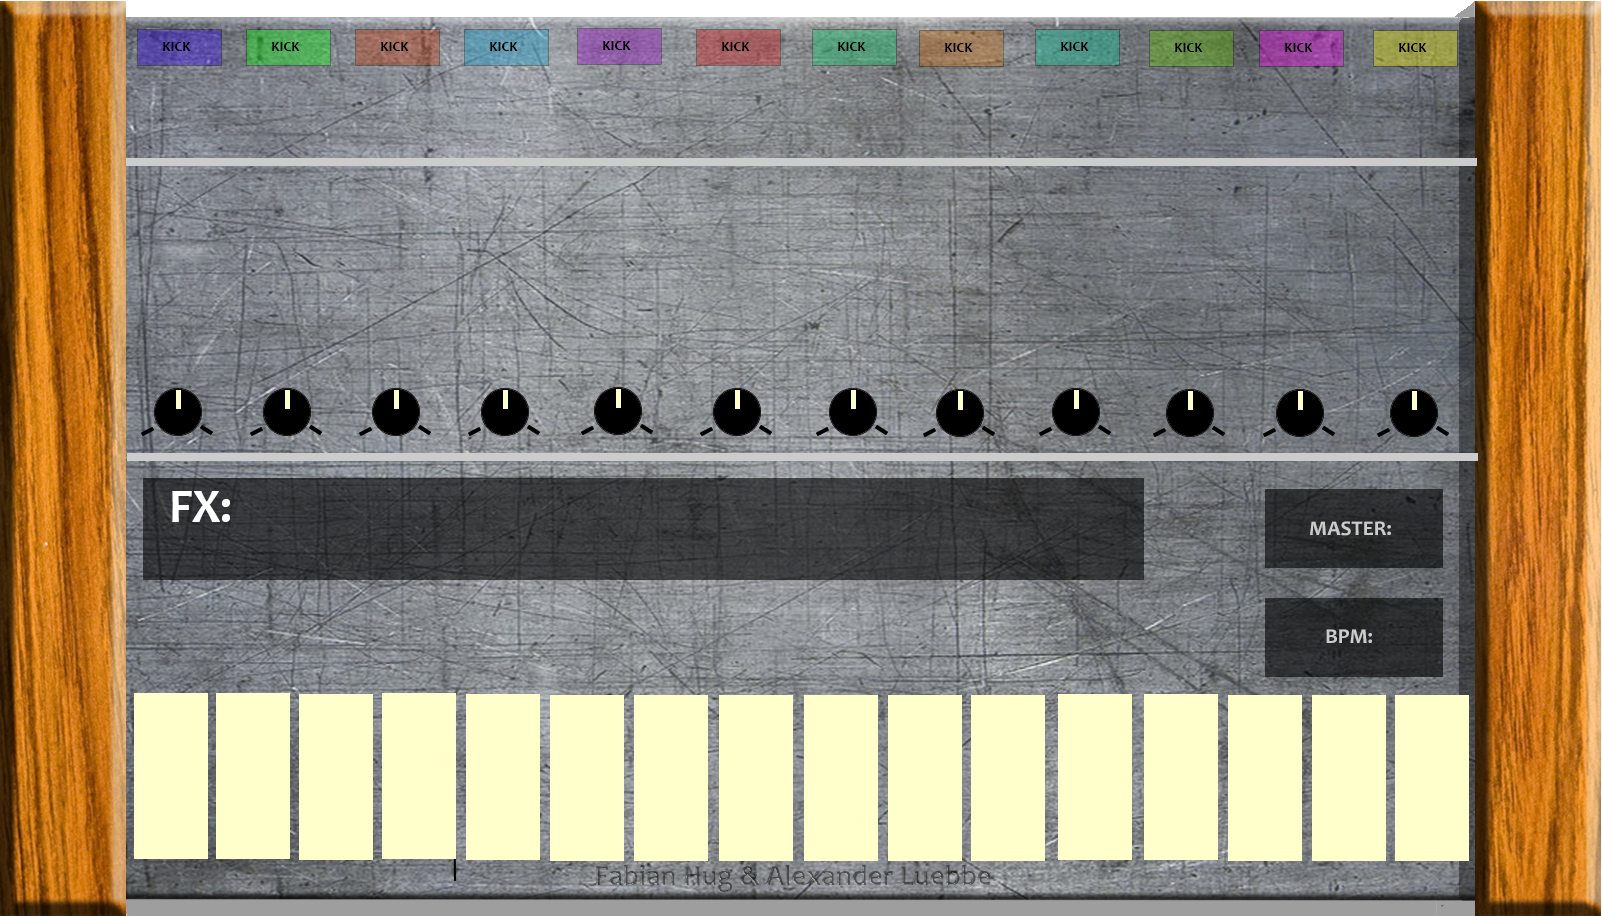
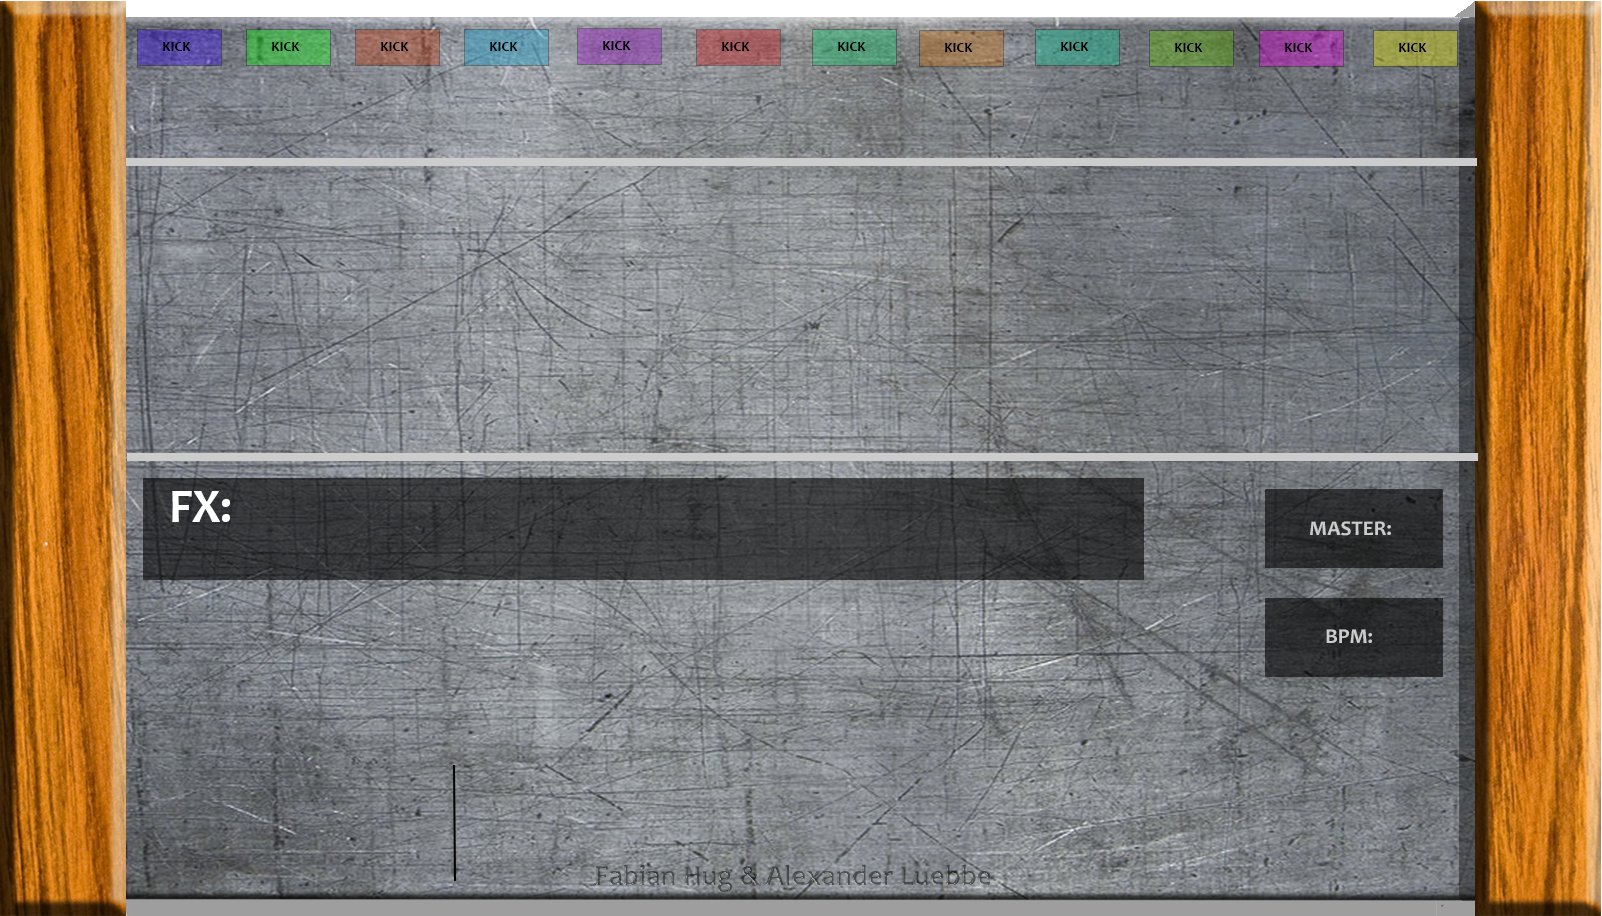
Html/Css Einbauen weiterer Controll-Elemente
Integrieren von:
-Platzhalter für Selector (Vorsorge für Margineinstellungen, etc.)
-Vorläufige Panorama Regler
-Platzhalter für die Global/Master Sektion
-Vorläufige Sequenzer-Buttons

diff --git a/css/screen.css b/css/screen.css
@@ -1,10 +1,9 @@
 *{
-	/*prevent user to select elements*/
 	-webkit-appearance: none;
 	-webkit-user-select: none; /* Chrome/Safari */
 	-moz-user-select: none; /* Firefox */
 	-ms-user-select: none;
-	/*border: 1px dashed blue; /* zur Orientierung*/
+	/*prevent user to select elements*/
 }
 
 html{
@@ -31,54 +30,59 @@ body {
 	width: 85em;
 	margin: auto;
 	margin-top: 5%;
-
-
 }
 
 #devicecontent{
 	overflow: auto;
-	margin-top: 0; /*Positionierung des contents auf der Silbernen Platte*/
+	margin-top: 0; /*Positionierung des contents auf der  Metallplatte*/
+}
+
+
+/*SELECTORS-PLATZHALTER*/
+#selector1{
+	margin-left: 7.3em;
+}
+.selectors{
+	height: 2em;
+	width: 5em;
+	background-color: #ddd;
+	margin-top: 1.5em;
+	margin-bottom: 0.5em;
 }
 
 /*TRIGGERPADS*/
 #trigger1{
-	margin-left: 8.5%;
+	margin-left: 7.3em;
 }
-
 .triggers{
 	vertical-align: top;
 	height: 4em;
 	width: 5em;
 	background-color: #ffffcc;
 	border-radius: 0.2em;
-	margin-top: 4.6%;
 	margin-left: 0.8%;
 	margin-bottom: 0.8%;
-	-webkit-box-shadow: -0.18em 0.18em 0.3em #000000, inset 0.1em -0.1em 0.3em #000000, inset -0.2em 0.2em 0.3em #fffffc;
-	-moz-box-shadow: -0.18em 0.18em 0.3em #000000, inset 0.1em -0.1em 0.3em #000000, inset -0.2em 0.2em 0.3em #fffffc;
+	-webkit-box-shadow: -0.14em 0.14em 0.3em #000000, inset 0.1em -0.1em 0.3em #000000, inset -0.2em 0.2em 0.3em #fffffc;
+	-moz-box-shadow: -0.14em 0.14em 0.3em #000000, inset 0.1em -0.1em 0.3em #000000, inset -0.2em 0.2em 0.3em #fffffc;
 	box-shadow: -0.14em 0.14em 0.3em #000000, inset 0.1em -0.1em 0.3em #000000, inset -0.2em 0.2em 0.3em #fffffc;
 	display: inline-block;
 }
-
 .triggers:active{
 	-webkit-box-shadow: -0.1em 0.1em 0.2em #000000, inset 0.1em -0.1em 0.3em #000000, inset -0.1em 0.1em 0.2em #fffffc, inset 0.5em -0.5em 2em #fffffc, inset -0.1em 0.1em 2.5em #909090;
 	-moz-box-shadow: -0.1em 0.1em 0.2em #000000, inset 0.1em -0.1em 0.3em #000000, inset -0.1em 0.1em 0.2em #fffffc, inset 0.5em -0.5em 2em #fffffc, inset -0.1em 0.1em 2.5em #909090;
 	box-shadow: -0.1em 0.1em 0.2em #000000, inset 0.1em -0.1em 0.3em #000000, inset -0.1em 0.1em 0.2em #fffffc, inset 0.5em -0.5em 2em #fffffc, inset -0.1em 0.1em 2.5em #909090;
 }
-
-/*triggerpad Buchstaben @W*/
+/*triggerpad Beschriftung @W*/
 p{
 	margin:auto;
 	text-align: center;
 	font-size: 150%;
 }
 
-
 /*VOLUMEFADER*/
 #slide1{
 	margin-left: 9.5em;
 }
-
 .slides{
 	vertical-align: top;
 	height: 9em;
@@ -90,7 +94,6 @@ p{
 	margin-bottom: 1em;
 	display: inline-block;
 }
-
 .faders{
 	height: 2.5em;
 	width: 1.4em;
@@ -100,4 +103,57 @@ p{
 	margin-left: -0.5em;
 	margin-bottom: 1em;
 	display: inline-block;
+}
+
+/*PANORAMAKNOBS*/
+#pan1{
+	margin-left: 8.6em;
+}
+.pans{
+	height: 2.2em;
+	width: 2.2em;
+	background-color: #000;
+	border-radius: 50%;
+	margin-top: 1em;
+	margin-left: 3.48em;
+	display: inline-block;
+}
+.panFont{
+	margin-top: 0.5em;
+	text-align: center;
+	font-size: 80%;
+	color: white;
+}
+
+/*GLOBALSETTINGS-PLATZHALTER*/
+#globalsect{
+	height: 10em;
+	width: 70em;
+	border: 0.1em solid black;
+	margin-top: 1.5em;
+	margin-left: 7.5em;
+	margin-bottom: 0.5em;
+}
+
+/*SEQUENZERBUTTONS*/
+#hit1{
+	margin-left: 7.1em;
+}
+.seqButtons{
+	vertical-align: top;
+	height: 10em;
+	width: 4em;
+	background-color: #fff;
+	border-radius: 0.1em;
+	margin-left: 0.2em;
+	margin-bottom: 1em;
+	-webkit-box-shadow: -0.2em 0.2em 0.3em #000000, inset 0.1em -0.1em 0.3em #000000, inset -0.2em 0.2em 0.3em #fffffc;
+	-moz-box-shadow: -0.2em 0.2em 0.3em #000000, inset 0.1em -0.1em 0.3em #000000, inset -0.2em 0.2em 0.3em #fffffc;
+	box-shadow: -0.2em 0.2em 0.3em #000000, inset 0.1em -0.1em 0.3em #000000, inset -0.2em 0.2em 0.3em #fffffc;
+	display: inline-block;
+}
+.seqButtons:active{ /*Merkt sich den Click noch nicht (JS?)*/
+	-webkit-box-shadow: -0.0em 0.0em 0.2em #000000, inset 0.1em -0.1em 0.3em #000000, inset -0.2em 0.2em 0.3em #fffffc;
+	-moz-box-shadow: -0.0em 0.0em 0.2em #000000, inset 0.1em -0.1em 0.3em #000000, inset -0.2em 0.2em 0.3em #fffffc;
+	box-shadow: -0.0em 0.0em 0.2em #000000, inset 0.1em -0.1em 0.3em #000000, inset -0.2em 0.2em 0.3em #fffffc;
 }

diff --git a/index.html b/index.html
@@ -12,10 +12,14 @@
   <body ontouchstart="">
     <!-- JS-To-Do: ladeanimation integrieren, aktueller stand siehe loader.js -->
     <div id = "devicebody">
-
       <div id = "devicecontent">
 
-        <!-- TriggerPad Test -->
+        <!--SelectorSection-->
+        <div>
+          <div id = "selector1" class = "selectors"></div>
+        </div>
+
+        <!-- TriggerPadSection -->
         <div>
           <div id = "trigger1" class = "triggers"><p>X</p></div>
           <div id = "trigger2" class = "triggers"><p>Y</p></div>
@@ -31,8 +35,7 @@
           <div id = "trigger12" class = "triggers"></div>
         </div>
 
-
-        <!-- Fader Test-->
+        <!-- FaderSection-->
         <div>
           <div id = "slide1" class = "slides">
             <div id = "fader1" class = "faders"></div>
@@ -70,6 +73,47 @@
           <div id = "slide12" class = "slides">
             <div id = "fader12" class = "faders"></div>
           </div>
+        </div>
+
+        <!--PanningSection-->
+        <div>
+          <div id = "pan1" class = "pans"><p class = "panFont" >Pan</p></div>
+          <div id = "pan2" class = "pans"><p class = "panFont" >Pan</p></div>
+          <div id = "pan3" class = "pans"><p class = "panFont" >Pan</p></div>
+          <div id = "pan4" class = "pans"><p class = "panFont" >Pan</p></div>
+          <div id = "pan5" class = "pans"><p class = "panFont" >Pan</p></div>
+          <div id = "pan6" class = "pans"><p class = "panFont" >Pan</p></div>
+          <div id = "pan7" class = "pans"><p class = "panFont" >Pan</p></div>
+          <div id = "pan8" class = "pans"><p class = "panFont" >Pan</p></div>
+          <div id = "pan9" class = "pans"><p class = "panFont" >Pan</p></div>
+          <div id = "pan10" class = "pans"><p class = "panFont" >Pan</p></div>
+          <div id = "pan11" class = "pans"><p class = "panFont" >Pan</p></div>
+          <div id = "pan12" class = "pans"><p class = "panFont" >Pan</p></div>
+        </div>
+
+        <!--GlobalSection-->
+        <div>
+          <div id = "globalsect"></div>
+        </div>
+
+        <!--SequenzerSection -->
+        <div>
+          <div id = "hit1" class = "seqButtons"><p>1</p></div>
+          <div id = "hit2" class = "seqButtons"><p>2</p></div>
+          <div id = "hit3" class = "seqButtons"><p>3</p></div>
+          <div id = "hit4" class = "seqButtons"><p>4</p></div>
+          <div id = "hit5" class = "seqButtons"><p>5</p></div>
+          <div id = "hit6" class = "seqButtons"><p>6</p></div>
+          <div id = "hit7" class = "seqButtons"><p>7</p></div>
+          <div id = "hit8" class = "seqButtons"><p>8</p></div>
+          <div id = "hit9" class = "seqButtons"><p>9</p></div>
+          <div id = "hit10" class = "seqButtons"><p>10</p></div>
+          <div id = "hit11" class = "seqButtons"><p>11</p></div>
+          <div id = "hit12" class = "seqButtons"><p>12</p></div>
+          <div id = "hit13" class = "seqButtons"><p>13</p></div>
+          <div id = "hit14" class = "seqButtons"><p>14</p></div>
+          <div id = "hit15" class = "seqButtons"><p>15</p></div>
+          <div id = "hit16" class = "seqButtons"><p>16</p></div>
         </div>
 
       </div>
